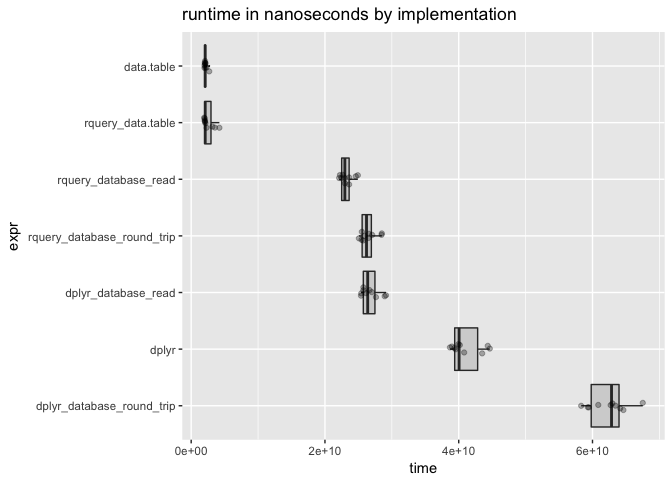
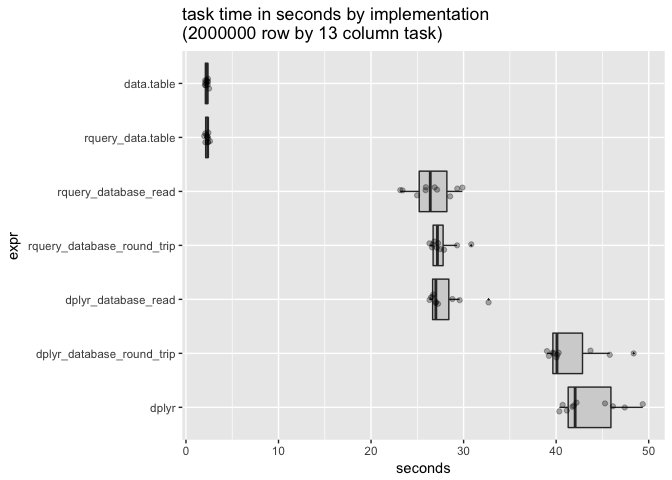
re-run

diff --git a/extras/data_table.md b/extras/data_table.md
@@ -245,6 +245,14 @@ dL <- mk_example(nSubj, 10)
 dR <- rq_copy_to(my_db, table_name = "dL", dL, 
                  temporary = TRUE, overwrite = TRUE)
 dRtbl <- dplyr::tbl(my_db, dR$table_name)
+
+dplyr_round_trip <- function(dL) {
+  # https://github.com/tidyverse/dplyr/issues/3026#issuecomment-339035129
+  DBI::dbWriteTable(my_db, "dplyr_tmp", 
+                    select(dL, subjectID, surveyCategory, assessmentTotal), 
+                    overwrite = TRUE, temporary = TRUE)
+  as.data.frame(dplyr_pipeline(dplyr::tbl(my_db, "dplyr_tmp")))
+}
 ```
 
 ``` r
@@ -310,9 +318,7 @@ assertthat::are_equal(ref, c3)
 ``` r
 # database round trip version
 # narrow by hand before copying to give all advantages.
-c4 <- as.data.frame(dplyr_pipeline(dplyr::copy_to(my_db, 
-                                                  select(dL, subjectID, surveyCategory, assessmentTotal), 
-                                                  "dLtmp", overwrite = TRUE, temporary = TRUE)))
+c4 <- dplyr_round_trip(dL)
 assertthat::are_equal(ref, c4)
 ```
 
@@ -340,9 +346,7 @@ timings <- microbenchmark(times = 10L,
   data.table = nrow(data.table_function(dL)),
   dplyr = nrow(dplyr_pipeline(dL)),
   dplyr_database_read = nrow(as.data.frame(dplyr_pipeline(dRtbl))),
-  dplyr_database_round_trip = nrow(as.data.frame(dplyr_pipeline(dplyr::copy_to(my_db, 
-                                                  select(dL, subjectID, surveyCategory, assessmentTotal), 
-                                                  "dLtmp", overwrite = TRUE, temporary = TRUE))))
+  dplyr_database_round_trip = nrow(dplyr_round_trip(dL))
 )
 ```
 
@@ -352,21 +356,21 @@ print(timings)
 
     ## Unit: seconds
     ##                        expr       min        lq      mean    median
-    ##  rquery_database_round_trip 25.073923 25.511922 26.476737 26.213450
-    ##        rquery_database_read 22.122548 22.449000 23.217000 22.976704
-    ##           rquery_data.table  1.948125  2.017964  2.546166  2.096369
-    ##                  data.table  1.983775  2.032302  2.149564  2.088585
-    ##                       dplyr 38.683119 39.352977 40.995207 40.055997
-    ##         dplyr_database_read 25.390203 25.734740 26.776651 26.391443
-    ##   dplyr_database_round_trip 58.310197 59.455975 62.334416 62.846960
+    ##  rquery_database_round_trip 26.311931 26.663063 27.624205 27.173163
+    ##        rquery_database_read 23.156904 24.973815 26.508566 26.398277
+    ##           rquery_data.table  1.972515  2.096254  2.286348  2.344883
+    ##                  data.table  2.045507  2.083433  2.247139  2.269959
+    ##                       dplyr 40.344201 41.148170 43.625014 42.052570
+    ##         dplyr_database_read 26.316840 26.629779 27.846407 27.003085
+    ##   dplyr_database_round_trip 39.008824 39.631231 41.588376 40.088924
     ##         uq       max neval
-    ##  27.068791 28.504425    10
-    ##  23.615097 24.916866    10
-    ##   3.181604  4.215407    10
-    ##   2.131426  2.698049    10
-    ##  43.501381 44.644376    10
-    ##  27.624446 29.125548    10
-    ##  64.142818 67.516631    10
+    ##  27.886658 30.828309    10
+    ##  28.546030 29.868441    10
+    ##   2.396575  2.593061    10
+    ##   2.368214  2.498477    10
+    ##  46.133084 49.360182    10
+    ##  28.790255 32.697245    10
+    ##  43.710269 48.375979    10
 
 ``` r
 # summarize by hand using rquery database connector
@@ -382,13 +386,13 @@ knitr::kable(means)
 
 | expr                          |   mean\_time|
 |:------------------------------|------------:|
-| data.table                    |   2149564386|
-| rquery\_data.table            |   2546165543|
-| rquery\_database\_read        |  23216999521|
-| rquery\_database\_round\_trip |  26476736507|
-| dplyr\_database\_read         |  26776650863|
-| dplyr                         |  40995207251|
-| dplyr\_database\_round\_trip  |  62334416223|
+| data.table                    |   2247139445|
+| rquery\_data.table            |   2286348101|
+| rquery\_database\_read        |  26508565574|
+| rquery\_database\_round\_trip |  27624204998|
+| dplyr\_database\_read         |  27846407352|
+| dplyr\_database\_round\_trip  |  41588375679|
+| dplyr                         |  43625013775|
 
 ``` r
 autoplot(timings)
@@ -398,12 +402,13 @@ autoplot(timings)
 
 ``` r
 timings <- as.data.frame(timings)
+timings$seconds <- timings$time/1e9
 timings$expr <- factor(timings$expr, rev(means$expr))
 WVPlots::ScatterBoxPlotH(as.data.frame(timings), 
-                         "time", "expr", 
-                         "runtime in nanoseconds by implementation")
+                         "seconds", "expr", 
+                         paste0("task time in seconds by implementation\n(",
+                                nrow(dL), " row by ", ncol(dL), " column task)"))
 ```
 
 ![](data_table_files/figure-markdown_github/presenttimings-2.png)
 
-For more timings (including fast base-R implementations), please see [here](https://github.com/WinVector/rquery/blob/master/extras/QTimingFollowup/QTiming4.md).
